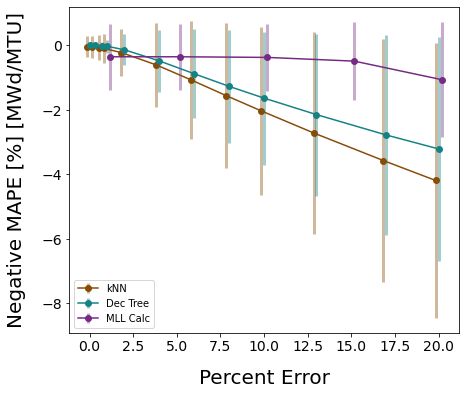
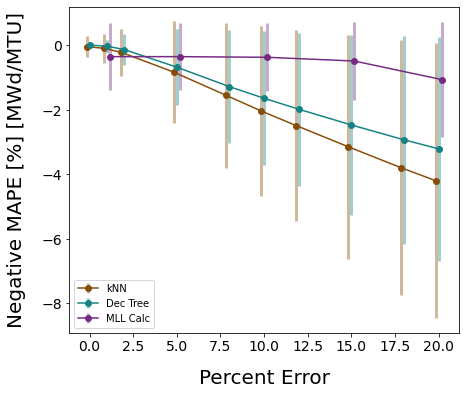
updates to plots

diff --git a/document/chapters/exp1/eval_subs.tex b/document/chapters/exp1/eval_subs.tex
@@ -5,79 +5,40 @@
   \centering
   \begin{subfigure}[b]{0.49\textwidth}
     \centering
-    \includegraphics[width=\textwidth]{./chapters/exp1/learncurve_nuc29_err01_BalAcc_rxtr.png}
+    \includegraphics[width=\textwidth]{./chapters/exp1/learncurve_nuc29_err05_BalAcc_rxtr.png}
     \caption{Balanced accuracy of reactor type classification with respect 
              to training set size.}
-    \label{fig:learnsA01}
+    \label{fig:learnsA}
   \end{subfigure}
   \hfill
   \begin{subfigure}[b]{0.49\textwidth}
     \centering
-    \includegraphics[width=\textwidth]{./chapters/exp1/learncurve_nuc29_err01_MAPE_burn.png}
+    \includegraphics[width=\textwidth]{./chapters/exp1/learncurve_nuc29_err05_MAPE_burn.png}
     \caption{Negative \gls{MAPE} of burnup regression with respect to 
              to training set size.}
-    \label{fig:learnsB01}
+    \label{fig:learnsB}
   \end{subfigure}
   \vskip\baselineskip
   \begin{subfigure}[b]{0.49\textwidth}
     \centering
-    \includegraphics[width=\textwidth]{./chapters/exp1/learncurve_nuc29_err01_MAPE_enri.png}
+    \includegraphics[width=\textwidth]{./chapters/exp1/learncurve_nuc29_err05_MAPE_enri.png}
     \caption{Negative \gls{MAPE} of \gls{U235} enrichment regression with 
              respect to training set size.}
-    \label{fig:learnsC01}
+    \label{fig:learnsC}
   \end{subfigure}
   \hfill
   \begin{subfigure}[b]{0.49\textwidth}
     \centering
-    \includegraphics[width=\textwidth]{./chapters/exp1/learncurve_nuc29_err01_MAPE_cool.png}
+    \includegraphics[width=\textwidth]{./chapters/exp1/learncurve_nuc29_err05_MAPE_cool.png}
     \caption{Negative \gls{MAPE} of time since irradiation regression with 
              respect to training set size.}
-    \label{fig:learnsD01}
+    \label{fig:learnsD}
   \end{subfigure}
   \caption{Learning curves for reactor type, burnup, enrichment, and time 
            since irradiation with respect to increasing fraction of the 
-           training set, for 1\% training set random error.}
-  \label{fig:learns01}
+           training set, for 5\% training set random error.}
+  \label{fig:learns}
 \end{figure}
-
-%\begin{figure}[!htb]
-%  \centering
-%  \begin{subfigure}[b]{0.49\textwidth}
-%    \centering
-%    \includegraphics[width=\textwidth]{./chapters/exp1/learncurve_nuc29_err10_BalAcc_rxtr.png}
-%    \caption{Balanced accuracy of reactor type classification with respect 
-%             to training set size.}
-%    \label{fig:learnsA10}
-%  \end{subfigure}
-%  \hfill
-%  \begin{subfigure}[b]{0.49\textwidth}
-%    \centering
-%    \includegraphics[width=\textwidth]{./chapters/exp1/learncurve_nuc29_err10_MAPE_burn.png}
-%    \caption{Negative \gls{MAPE} of burnup regression with respect to 
-%             to training set size.}
-%    \label{fig:learnsB10}
-%  \end{subfigure}
-%  \vskip\baselineskip
-%  \begin{subfigure}[b]{0.49\textwidth}
-%    \centering
-%    \includegraphics[width=\textwidth]{./chapters/exp1/learncurve_nuc29_err10_MAPE_enri.png}
-%    \caption{Negative \gls{MAPE} of \gls{U235} enrichment regression with 
-%             respect to training set size.}
-%    \label{fig:learnsC10}
-%  \end{subfigure}
-%  \hfill
-%  \begin{subfigure}[b]{0.49\textwidth}
-%    \centering
-%    \includegraphics[width=\textwidth]{./chapters/exp1/learncurve_nuc29_err10_MAPE_cool.png}
-%    \caption{Negative \gls{MAPE} of time since irradiation regression with 
-%             respect to training set size.}
-%    \label{fig:learnsD10}
-%  \end{subfigure}
-%  \caption{Learning curves for reactor type, burnup, enrichment, and time 
-%           since irradiation with respect to increasing fraction of the 
-%           training set, for 10\% training set random error.}
-%  \label{fig:learns10}
-%\end{figure}
 
 Although a key takeaway from Figure \ref{fig:randerr} is that the \gls{MLL}
 calculations are the most robust to introduced error in the training set
@@ -93,28 +54,26 @@ One way to show that an algorithm is generalizing well in comparison to others
 is to view the shape of its learning curve (introduced in Section
 \ref{sec:complexity}): the prediction performance with respect to training set
 size.  Learning curves were constructed for all four prediction categories,
-demonstrated in Figure \ref{fig:learns01}. As in Figure \ref{fig:randerr}, the
+demonstrated in Figure \ref{fig:learns}. As in Figure \ref{fig:randerr}, the
 \textit{y}-axis is always oriented so that lower is poorer performance and
 higher is better performance; also, the error bars reflect a 99\% confidence
-interval for Figure \ref{fig:learnsA01}, and one standard deviation of the
-average percentage errors for Figures \ref{fig:learnsB01}--\ref{fig:learnsD01}.
+interval for Figure \ref{fig:learnsA}, and one standard deviation of the
+average percentage errors for Figures \ref{fig:learnsB}--\ref{fig:learnsD}.
 These learning curves represent the 1\% random error case in Figure
 \ref{fig:randerr}, so the \gls{MLL} learning curve will be below the
 scikit-learn algorithms for the reactor type, burnup, and enrichment
 predictions, and the \textit{k}-nearest neighbor learning curve will be below
 the \gls{MLL} and decision tree curves for time since irradiation.  Thus, the
 scores/errors in Figure \ref{fig:randerr} are the data points at the 100\%
-training set level in Figure \ref{fig:learns01}.  \todo[inline]{would it be
-better to flip the x-axis so that performance degradation travels right as in
-the random error plots?}
+training set level in Figure \ref{fig:learns}.  
 
-Figure \ref{fig:learnsA01} shows that the balanced accuracy score of reactor type
+Figure \ref{fig:learnsA} shows that the balanced accuracy score of reactor type
 classification for the \gls{MLL} calculations decreases more at lower training
 set size than for the scikit-learn algorithms.  This pattern holds true for the
-burnup \gls{MAPE} in Figure \ref{fig:learnsB01} and the enrichment \gls{MAPE} in
-Figure \ref{fig:learnsC01}, although the standard deviation is large enough for
+burnup \gls{MAPE} in Figure \ref{fig:learnsB} and the enrichment \gls{MAPE} in
+Figure \ref{fig:learnsC}, although the standard deviation is large enough for
 the \gls{MLL} values that the two sets of scikit-learn values are encompassed
-by that range. Lastly, Figure \ref{fig:learnsD01} has the error bars cropped out
+by that range. Lastly, Figure \ref{fig:learnsD} has the error bars cropped out
 for the \textit{k}-nearest neighbors curve in order to better see the \gls{MLL}
 and decision tree curves. The latter two follow a nearly equivalent path, and
 the decrease in performance for \textit{k}-nearest neighbors happens mostly in

diff --git a/document/chapters/exp1/inforeduc.tex b/document/chapters/exp1/inforeduc.tex
@@ -25,10 +25,10 @@ and \gls{MLL} calculations, respectively.
 For the \textit{k}-nearest neighbor and decision tree algorithms, a uniform
 error is applied randomly to each nuclide mass as follows.  For a maximum error
 percentage of $E_{max}$, each nuclide mass is peturbed by a random value in the
-range: $[100-E_{max},100+E_{max}]$.  This occurs for 12 error levels between
-$0\% < E_{max} < 20\%$: 0, 0.3, 0.7, 1, 2, 4, 6, 8, 10, 13, 17, 20.  Therefore
-the $0\%$ error case represents full knowledge of nuclide masses, and that
-knowledge slowly decreases up to $20\%$. 
+range: $[100-E_{max},100+E_{max}]$.  This occurs for 10 error levels between
+$0\% < E_{max} < 20\%$: 0, 1, 2, 5, 8, 10, 12, 15, 18, 20. Therefore the $0\%$
+error case represents full knowledge of nuclide masses, and that knowledge
+slowly decreases up to $20\%$. 
 
 \subsection{Maximum Log-Likelihood Calculations}
 

diff --git a/document/chapters/exp1/statmodels.tex b/document/chapters/exp1/statmodels.tex
@@ -74,7 +74,7 @@ hyperparameters \cite{scikit}):
   Cooling Time & 1                 & 73        & 29           \\ \bottomrule
   \end{tabular}
   \caption{Algorithm hyperparameters that underwent optimization.}
-  \todo[inline]{discribe optimization in detail or no?}
+  \todo[inline]{describe optimization in detail or no?}
   \label{tbl:exp1hypparam}
 \end{table}
 
